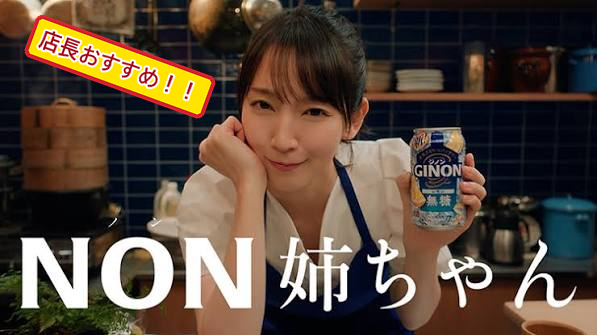
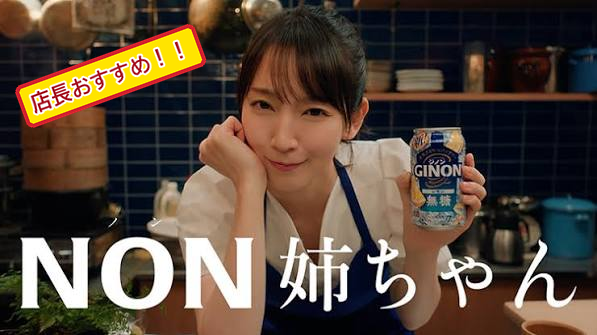
Flip GINON badge so the right edge tilts upward.

Changed region(s): [[0.0, 0.0299, 0.3618, 0.3881]]

diff --git a/lib/storeDrinkDessertMenu.ts b/lib/storeDrinkDessertMenu.ts
@@ -443,7 +443,7 @@ const DRINK_COCKTAIL: StoreMenuItem[] = [
 
 const DRINK_SOUR: StoreMenuItem[] = [
   sour("sour_ginon_lemon", "無糖レモンサワー ジノン", 520, {
-    image: "/store-menu/sour-ginon-lemon.png?v=20261117",
+    image: "/store-menu/sour-ginon-lemon.png?v=20261118",
     imageFit: "contain",
     imageBanner: true,
     imageWidth: 597,
